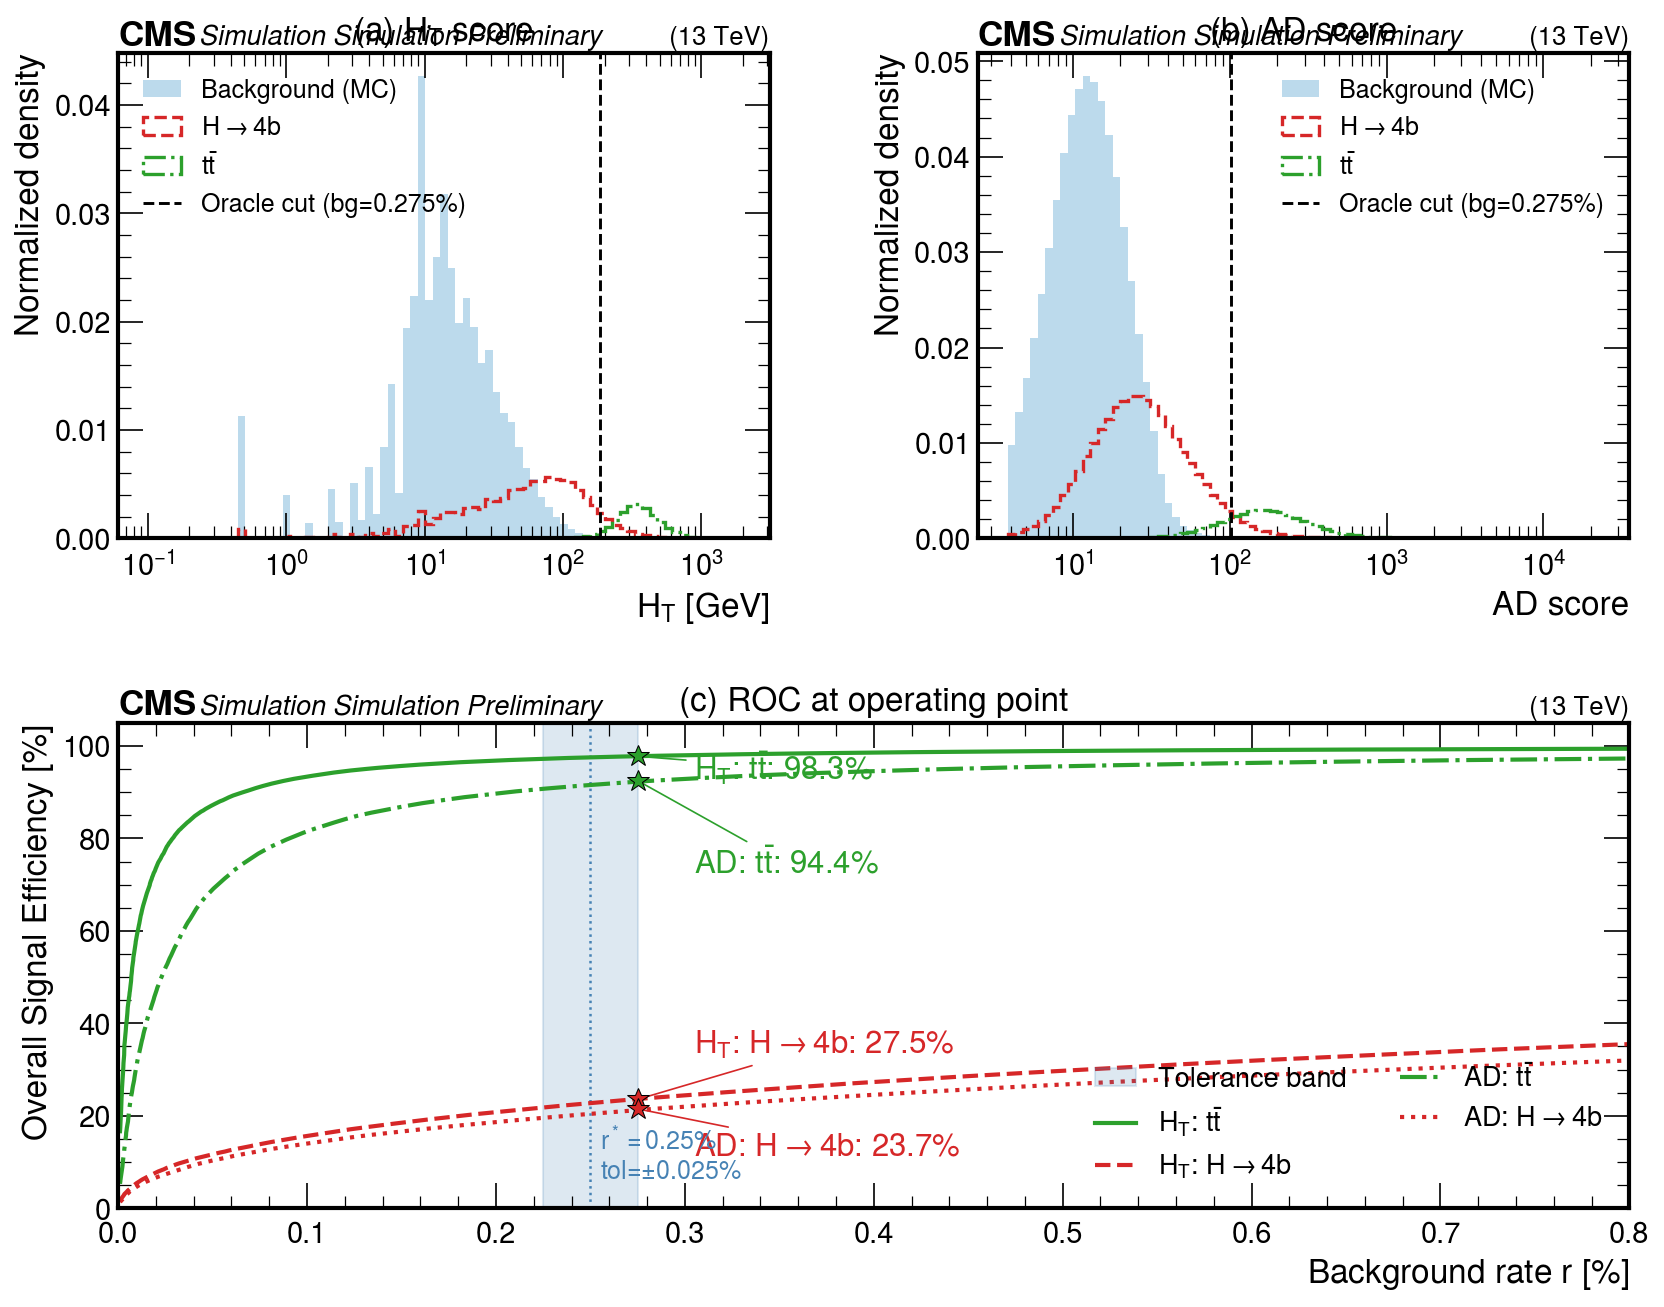
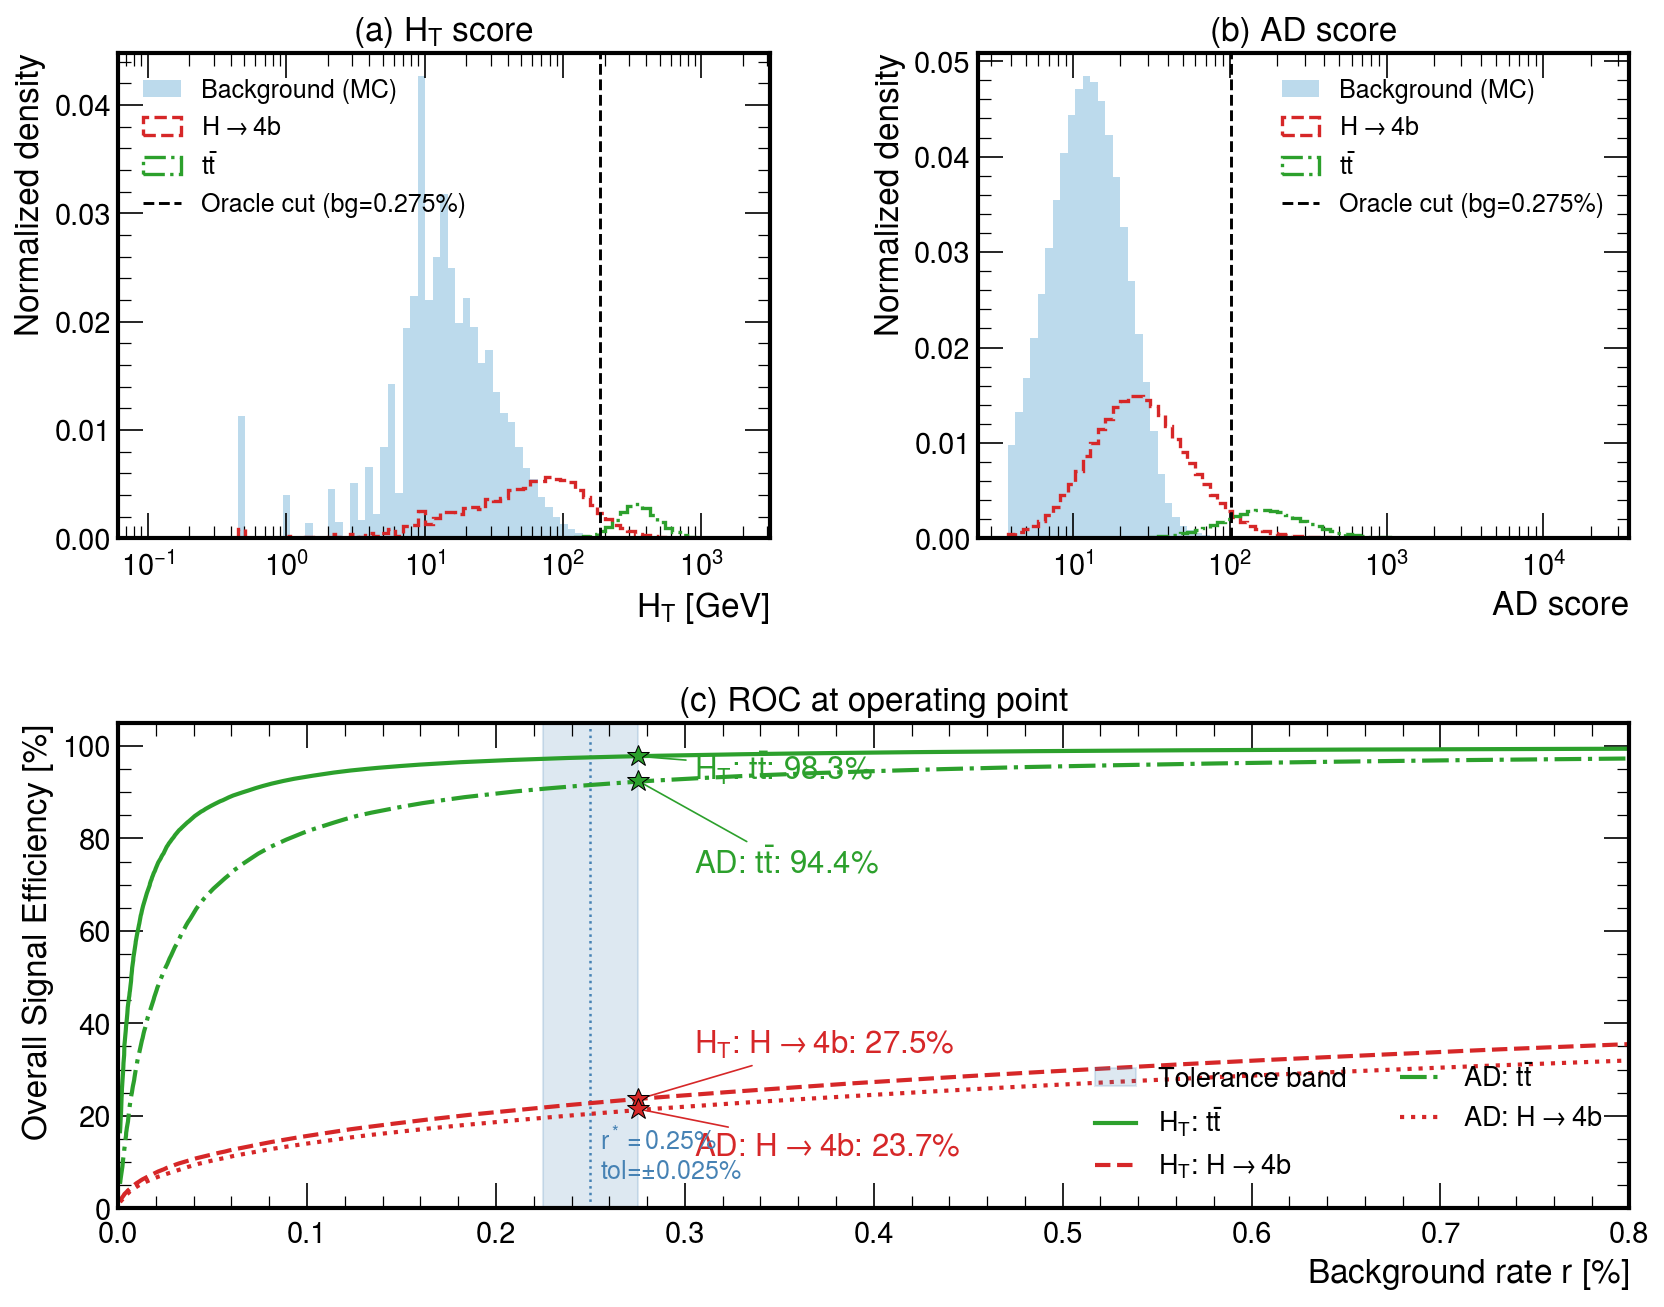
Remove CMS Preliminary labels from signal-background overlap figures

diff --git a/plot_signal_background_overlap_cms.py b/plot_signal_background_overlap_cms.py
@@ -221,9 +221,6 @@ ax_roc.set_title("(c) ROC at operating point", fontsize=LABEL_FS)
 ax_roc.tick_params(axis="both", labelsize=TICK_FS)
 ax_roc.legend(fontsize=LEGEND_FS, loc="lower right", framealpha=0.8, ncol=2)
 
-hep.cms.label("Preliminary", data=True, lumi=None, ax=ax_ht,  fontsize=LEGEND_FS)
-hep.cms.label("Preliminary", data=True, lumi=None, ax=ax_as,  fontsize=LEGEND_FS)
-hep.cms.label("Preliminary", data=True, lumi=None, ax=ax_roc, fontsize=LEGEND_FS)
 
 OUT.parent.mkdir(parents=True, exist_ok=True)
 for ext in ("pdf", "png"):

diff --git a/plot_signal_background_overlap_mc.py b/plot_signal_background_overlap_mc.py
@@ -253,9 +253,6 @@ ax_roc.set_title("(c) ROC at operating point", fontsize=LABEL_FS)
 ax_roc.tick_params(axis="both", labelsize=TICK_FS)
 ax_roc.legend(fontsize=LEGEND_FS, loc="lower right", framealpha=0.8, ncol=2)
 
-hep.cms.label("Simulation Preliminary", data=False, lumi=None, ax=ax_ht,  fontsize=LEGEND_FS)
-hep.cms.label("Simulation Preliminary", data=False, lumi=None, ax=ax_as,  fontsize=LEGEND_FS)
-hep.cms.label("Simulation Preliminary", data=False, lumi=None, ax=ax_roc, fontsize=LEGEND_FS)
 
 OUT.parent.mkdir(parents=True, exist_ok=True)
 for ext in ("pdf", "png"):